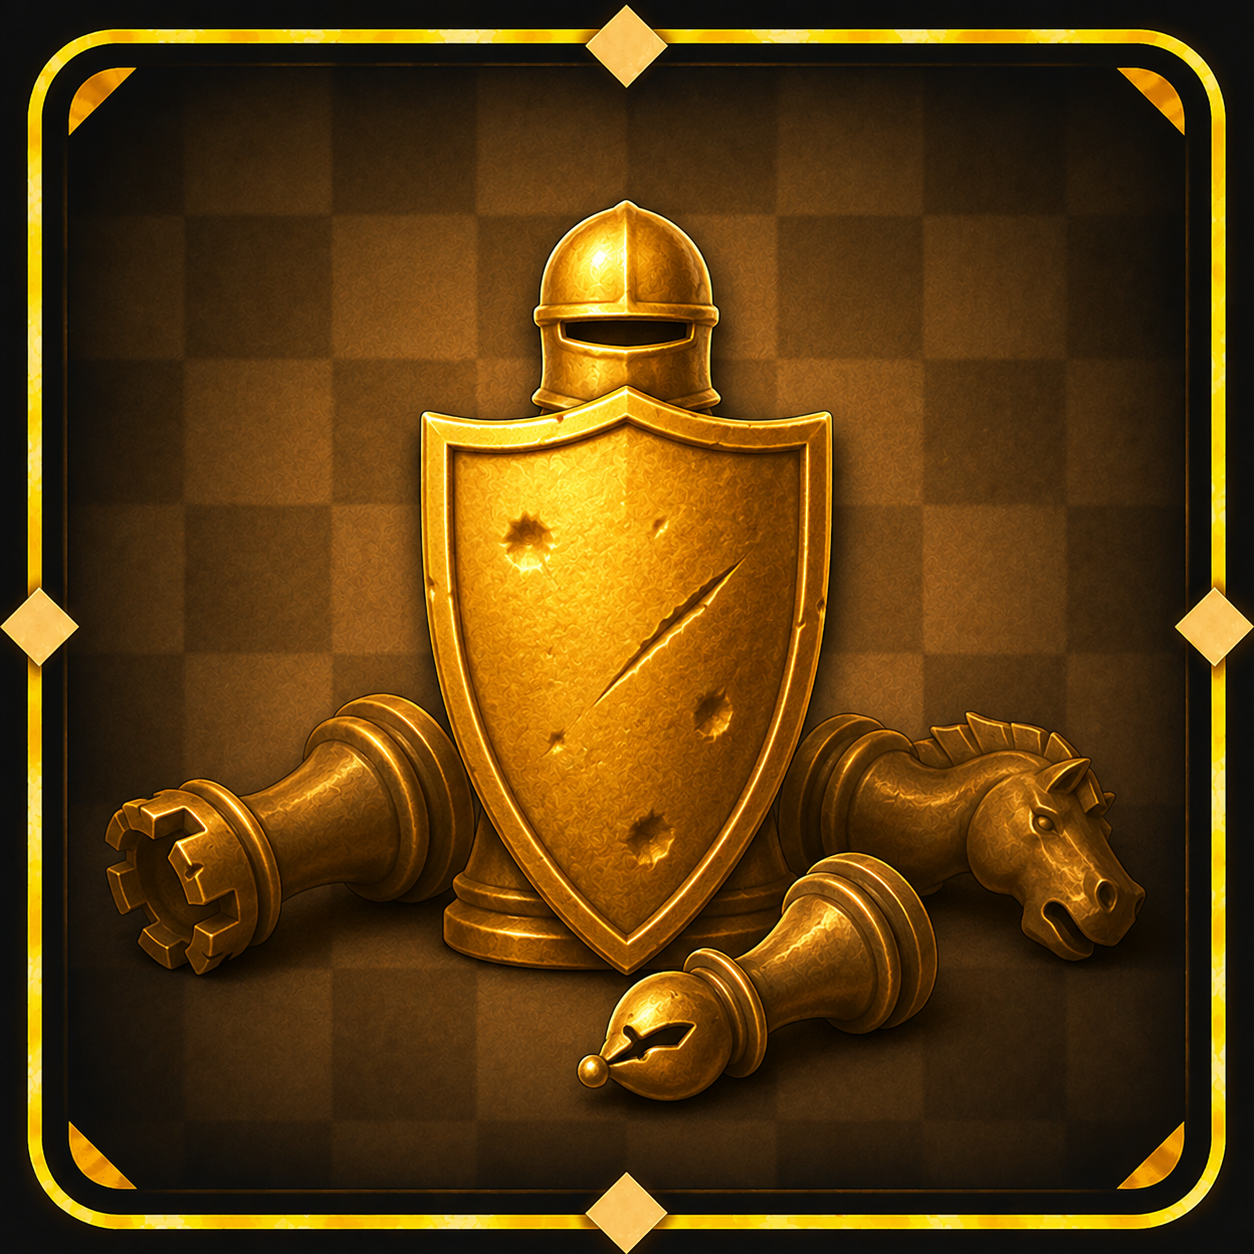
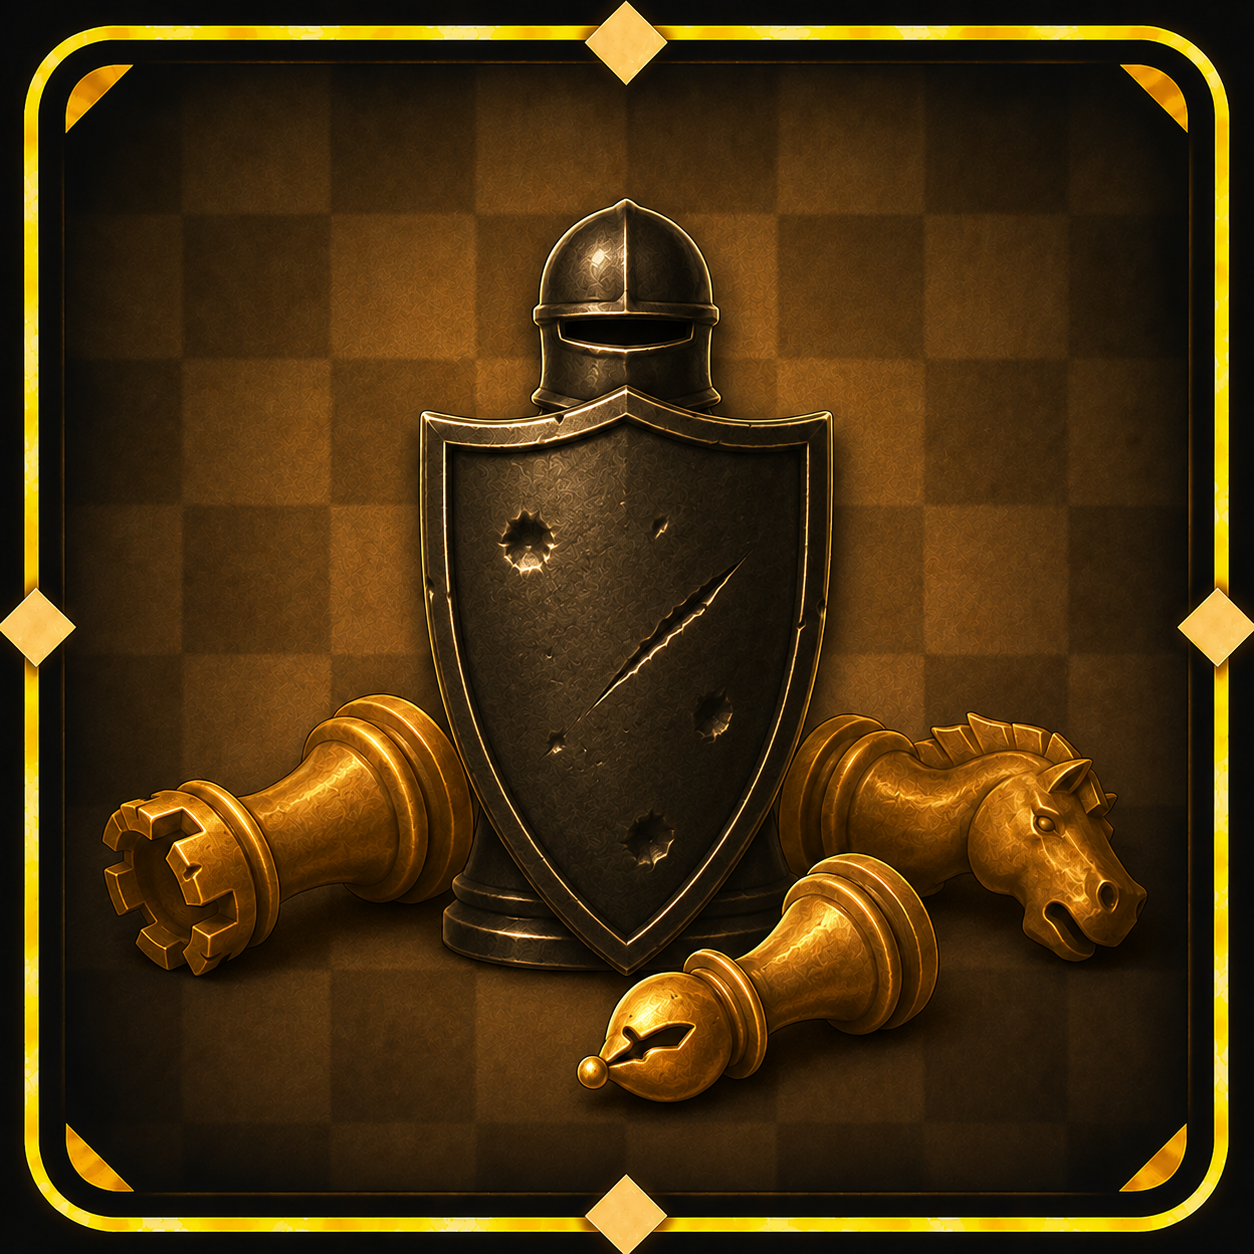
promptul pentru „Legarea absolută şi relativă"
Metafora e scrisă în descrierea tactilei, cuvânt cu cuvânt: „îi pui adversarului
o piesă în lanţuri şi arunci cheia". Deci cal negru legat, lanţul ţinut de un
nebun alb, dama neagră exact în spatele calului, iar jos o cheiţă aruncată.

Alinierea e mecanismul, nu compoziţia: nebun, cal, damă pe o singură linie, în
ordinea asta. Piesa mică stă în faţa celei mari — asta E legarea. Aşezate
alandala, imaginea arată doar un cal legat, fără să se înţeleagă de ce nu poate
pleca.

Am notat în fişier şi cum se desparte de „Ţeapă", vecina periculoasă: acolo piesa
valoroasă e în faţă şi fuge, aici piesa mică e în faţă şi nu poate. De aceea aici
accentul cade pe imobilizare — lanţuri, cheie aruncată — iar acolo va cădea pe
mişcare şi pe o linie care străpunge.

Prima plăcuţă scrisă direct cu codul culorilor, nu corectată după.

Changed region(s): [[0.0, 0.0, 1.0, 1.0], [0.7153, 0.4354, 0.7464, 0.4665]]

diff --git a/docs/prompturi-imagini/02-legarea.md b/docs/prompturi-imagini/02-legarea.md
@@ -1,0 +1,92 @@
+# 2. Legarea absolută și relativă → `pin.png`
+
+**Metafora** e scrisă în [`src/data/tactics.ts`](../../src/data/tactics.ts),
+cuvânt cu cuvânt:
+
+> Ții o piesă „țintuită" — dacă mută, expune ceva mai valoros din spate.
+> Practic, îi pui adversarului o piesă în lanțuri și arunci cheia.
+
+Deci: un **cal negru legat în lanțuri**, lanțul ținut de un **nebun alb-auriu**,
+iar în spatele calului — **dama neagră**, cea care s-ar descoperi dacă el ar
+mișca. Jos, o cheiță aruncată.
+
+| element | ce spune |
+| --- | --- |
+| nebunul alb, cu lanțul în mână | *cine leagă* |
+| calul negru, înfășurat, țeapăn | *piesa țintuită* |
+| dama neagră, exact în spatele lui | *ce se expune dacă mută* |
+| cheia căzută jos | *și nu se dezleagă* |
+
+## De ce alinierea contează
+
+Calul și dama trebuie să fie **exact pe aceeași linie** cu nebunul, dama în
+spate. Asta e tot mecanismul legării: piesa mică stă în fața celei mari. Dacă
+sunt așezate alandala, imaginea arată doar un cal legat, fără să se înțeleagă de
+ce nu poate pleca.
+
+## Ca să nu semene cu „Țeapă"
+
+Tactica 6 e vecina periculoasă — descrierea ei o spune singură: *„e furculița
+întoarsă pe dos"*. Acolo piesa **valoroasă e în față** și fuge, lăsând prada
+descoperită. Aici e invers: piesa mică e în față și **nu poate pleca**.
+
+De aceea aici accentul cade pe **imobilizare** — lanțuri, cheie aruncată,
+nemișcare — și nu pe o rază care străpunge. Când ajungem la Țeapă, aceea va avea
+mișcare și o linie care trece prin, nu lanțuri.
+
+**Atașează la mesaj DOUĂ imagini:**
+1. [`furculita.png`](../../surse-imagini/tactici/furculita.png) — rama, fundalul, finisajul;
+2. [`Sacrificii.png`](../../surse-imagini/tactici/Sacrificii.png) — modelul pentru cele două metale, alb și negru.
+
+---
+
+```text
+Here are two images you made earlier. Use them as the style reference: the first for the frame, the background and the finish, the second for the two metals — the pale gold of its fallen queen and the dark near-black bronze of its three standing pieces.
+
+KEEP IDENTICAL TO THE REFERENCES:
+- Square 1024x1024, filled edge to edge.
+- BACKGROUND: the same chessboard pattern of alternating brown squares in low contrast — darker squares #4B3317, lighter squares #7F5425 — covering the whole tile, with the same warm radial glow behind the subject (#63421D) falling off to near-black in the four corners (#171513). The board is only a backdrop: the pieces are NOT placed on its squares and do not line up with them.
+- FRAME: the same ornamental border — a thin double line in warm metallic gold (#DEB863) with rounded corners, angular gold corner pieces at the four corners, and one small gold diamond centred on each of the four sides.
+- FINISH: the same sculpted, polished, three-dimensional metal — soft rounded bevels, smooth gradients, a gentle sheen, soft drop shadows. Solid Staunton chess pieces, modelled in relief.
+
+THE TWO METALS:
+- LIGHT pieces are rich warm gold: highlight #FFD86A rising to #FCCB43 on the brightest edges, mid-tone #E7AD3E, shadows going deep to #8C4A01 and #5A340A. Strong contrast between light and shade — polished metal, never pale matte cream or ivory.
+- DARK pieces are near-black bronze: highlight #4A3A1C, mid-tone #241A0A, deep shadow #0E0A04, with a thin warm gold rim light along their edges so their silhouettes stay crisp against the brown board.
+
+THE SCENE — "a piece in chains, and the key thrown away". Three chess pieces and a chain, arranged along one straight line that runs from the lower left to the upper right, filling about 78 percent of the tile:
+
+1. LOWER LEFT: a LIGHT BISHOP, upright and firmly planted, its mitre with the diagonal slit turned up along the line. From its base runs a heavy CHAIN. This is the piece doing the binding.
+
+2. THE CHAIN: thick, heavy links — six or seven of them, large and simple, no fine ironwork. It runs taut from the bishop up to the middle of the tile, where it wraps twice around the body of the next piece and holds it fast. The chain is the same warm gold as the bishop, so it clearly belongs to him.
+
+3. MIDDLE: a DARK KNIGHT, bound. The chain is wrapped around its body and pulled tight. It stands rigidly upright, dead still, its head turned slightly as if straining — but it does not move and cannot. It is noticeably smaller than the piece behind it.
+
+4. BEHIND IT, further up the same line and slightly higher: a DARK QUEEN, tall and clearly the most valuable piece in the tile, standing exactly in line behind the knight. She is untouched and unbound. She is what would be exposed if the knight could step aside.
+
+THE ALIGNMENT IS THE MECHANISM. The bishop, the knight and the queen must sit on one perfectly straight line, in that order, so a viewer sees at once that the small bound piece stands directly in front of the big one. Do not scatter them.
+
+5. LOW IN THE FOREGROUND, off to one side and clearly separate from everything else: a small golden KEY, lying discarded on the ground, tilted at an angle as if it had just been tossed there. It is small, but it should be plainly visible.
+
+READABILITY: this tile is displayed small, so the silhouette carries it — a light shape at the lower left, a thick chain running up to the right, a dark bound shape in the middle, a taller dark crowned shape behind it, and one tiny bright key on the ground. Keep every piece bold and simple. No small ornaments, no engraving, no fine detail, no chessboard squares drawn on the pieces.
+
+NOT: no chess diagram, no board position, no arrows, no beams of light, no ropes, no padlocks, no blood, no letters or numbers, no coordinates, no hands, no king, no cartoon faces, no eyes, no sparkles, no smoke, no photorealism, no thin outlines, no plastic gloss. No text, no lettering, no logo, no watermark, no border outside the ornamental frame.
+
+OUTPUT: square image, at least 1024x1024.
+```
+
+---
+
+**Salvează ca:** `pin.png`, lângă celelalte.
+
+**Verificare**
+
+1. **Sunt toate trei pe o linie?** Nebun, cal, damă, în ordinea asta. Dacă dama
+   e într-o parte, se pierde tot mecanismul. Cere: *„put the bishop, the knight
+   and the queen on one straight line, the queen directly behind the knight"*.
+2. **Calul pare imobilizat?** Lanțul strâns, corpul țeapăn. Dacă lanțul doar
+   atârnă pe lângă el, nu se vede că e ținut.
+3. **Dama e vizibil mai mare decât calul?** Ea e miza; fără diferența de mărime
+   nu se înțelege de ce contează.
+4. **Se vede cheia?** Mică, dar prezentă — ea e gluma din descrierea tactilei.
+5. **Contrastul alb/negru e puternic?** Nebunul și lanțul aurii, calul și dama
+   întunecate.

diff --git a/docs/prompturi-imagini/README.md b/docs/prompturi-imagini/README.md
@@ -94,7 +94,7 @@ fiecare prompt cere siluetă groasă și zero detalii fine.
 | # | Fișier imagine | Tactica | Prompt |
 | --- | --- | --- | --- |
 | 1 | `fork.png` | Furculiță și atac dublu | [01-furculita.md](01-furculita.md) |
-| 2 | `pin.png` | Legarea absolută și relativă | — |
+| 2 | `pin.png` | Legarea absolută și relativă | [02-legarea.md](02-legarea.md) |
 | 3 | `discovered.png` | Atac prin descoperire și șah dublu | [03-descoperire.md](03-descoperire.md) |
 | 4 | `attraction.png` | Atragerea și devierea | — |
 | 5 | `remove-defender.png` | Îndepărtarea apărătorului | [05-indepartarea-aparatorului.md](05-indepartarea-aparatorului.md) |
